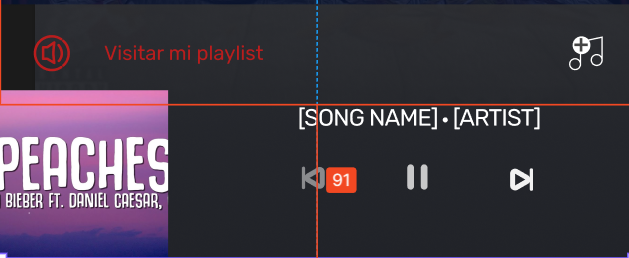
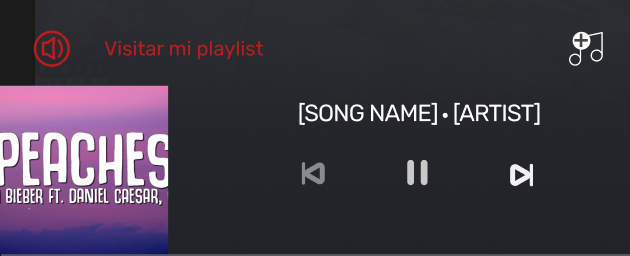
agregando la pag detalle_artistas + css

diff --git a/detalle_artistas.html b/detalle_artistas.html
@@ -1,0 +1,78 @@
+<!DOCTYPE html>
+<html lang="en">
+<head>
+    <meta charset="UTF-8">
+    <meta http-equiv="X-UA-Compatible" content="IE=edge">
+    <meta name="viewport" content="width=device-width, initial-scale=1.0">
+    <link rel="stylesheet" href="css/detalle_artistas.css">
+    <title>Document</title>
+</head>
+<body>
+    <div class="imagenfondo">
+        <h1 class="numero centrado">Justin Bieber</h1>
+    </div>
+    <h2 class="numero margen">Top 5</h2>
+    <section>
+        <article class="topcanciones">
+            <div class="justinimage">
+                <img src="images/justin-bieber-justice.jpeg" alt="foto de justin">
+            </div>
+            <div class="numero">
+                <p>1</p>
+            </div>
+            <div class="texto">
+                <p class="negrita"><a href="detalle_cancion.html">Peaches</a></p>
+                <p class="chico">167,465,750</p>
+            </div>
+        </article>
+        <article class="topcanciones">
+            <div class="justinimage">
+                <img src="images/justin-bieber-justice.jpeg" alt="foto de justin">
+            </div>
+            <div class="numero">
+                <p>2</p>
+            </div>
+            <div class="texto">
+                <p class="negrita"><a href="detalle_cancion.html">Hold On</a></p>
+                <p class="chico">225,811,505</p>
+            </div>
+        </article>
+        <article class="topcanciones">
+            <div class="justinimage">
+                <img src="images/justin-bieber-justice.jpeg" alt="foto de justin">
+            </div>
+            <div class="numero">
+                <p>3</p>
+            </div>
+            <div class="texto">
+                <p class="negrita"><a href="detalle_cancion.html">Anyone</a></p>
+                <p class="chico">237,647,521</p>
+            </div>
+        </article>
+        <article class="topcanciones">
+            <div class="justinimage">
+                <img src="images/justin-bieber-justice.jpeg" alt="foto de justin">
+            </div>
+            <div class="numero">
+                <p>4</p>
+            </div>
+            <div class="texto">
+                <p class="negrita"><a href="detalle_cancion.html">Holy</a></p>
+                <p class="chico">419,571,590</p>
+            </div>
+        </article>
+        <article class="topcanciones">
+            <div class="justinimage">
+                <img src="images/justin-bieber-justice.jpeg" alt="foto de justin">
+            </div>
+            <div class="numero">
+                <p>5</p>
+            </div>
+            <div class="texto">
+                <p class="negrita"><a href="detalle_cancion.html">Lonely</a></p>
+                <p class="chico">385,374,216</p>
+            </div>
+        </article>
+    </section>
+</body>
+</html>

diff --git a/css/detalle_cancion.css b/css/detalle_cancion.css
@@ -2,24 +2,29 @@
     box-sizing: border-box;
 }
 body{
-    background-image: url(../images/cancion_justin.jpg);
-    background-size: contain;
+    background-color: rgb(6, 13, 20);
     
 }
-section{
-    margin: 100px 150px;
-    text-align: center;
+/*section{
     
-}
-.titulo{
+    
+    
+}*/
+.blanco{
     color:white;
 }
 .texto{
     color: #646464;
+    text-align: center;
 }
 .mobile{
-    width: 420px;
     width: 100%;
+    position: fixed;
+    bottom: 0px;
+}
+.foto_mobile{
+    width: 420px  
+
 }
 .desktop {
     display: none;
@@ -30,18 +35,23 @@ section{
      }
     .texto{
         background-color: #B91D1D;
-        padding: 1px;
+        padding: 2px;
+        margin: 40px 200px;
         font-size: large;
     }
     .desktop{
-        /*display:;*/
-    }
-    .foto_player{
-        width: 1240px;
+        display: block;
+        position: fixed;
+        bottom: 0px;
         width: 100%;
+    }
+    .foto_desktop{
+        width: 1240px;
+        
     }
     .mobile{
         display: none;
+
     }
 }
  

diff --git a/css/detalle_artistas.css b/css/detalle_artistas.css
@@ -1,0 +1,50 @@
+*{
+    box-sizing: border-box;
+}
+
+body{
+    background-color:rgb(6, 13, 20) ;
+}
+
+.imagenfondo{
+    background-image: url(../images/justin-bieber-justice.jpeg);
+    padding: 20px;
+}
+.margen{
+    padding: 10px;
+}
+.centrado{
+    text-align: center;
+}
+.topcanciones{
+    display: flex;
+    flex-wrap: wrap;
+    flex-direction: row;
+    padding: 10px;
+}
+.justinimage{
+    width:20%
+}
+
+.justinimage img{
+    width: 100%;
+    border-radius: 10px;
+}
+article .numero{
+    padding: 10px 30px;
+    font-weight: bold
+}
+.numero{
+    color: white;
+}
+.texto a{
+    color: white;
+    text-decoration: none;
+}
+.texto .negrita{
+    font-weight: normal;
+}
+.texto .chico{
+    font-size: small;
+    color: #A7A7A7 ;
+}

diff --git a/detalle_cancion.html b/detalle_cancion.html
@@ -9,15 +9,15 @@
 </head>
 <body>
     <section class="texto">
-        <h2 class="titulo">Peaches</h2>
+        <h2 class="blanco">Peaches</h2>
         <p class="texto">Justin Bieber</p>
         <p class="texto">Justice</p>
     </section>
     <section class="mobile">
-        <img src="images/player_mobile.PNG" alt="player">
+        <img class="foto_mobile" src="images/player_mobile.PNG" alt="player">
     </section>
     <section class="desktop">
-        <img src="images/player img.PNG" alt="player">
+        <img class="foto_desktop" src="images/player img.PNG" alt="player">
     </section>
     
 </body>

diff --git a/css/detalle_disco.css b/css/detalle_disco.css
@@ -69,6 +69,9 @@ article a{
     .primera_seccion .imagen{
         width: 30%;
     }
+    .primera_seccion .justin{   
+        width: 100%;
+    }
     .primera_seccion article{
         padding: 50px;
     }
@@ -97,8 +100,8 @@ article a{
     }
     .table tr{
         padding: 15px;
-        border-bottom-style: solid;
-        border-bottom-width: 1px;
+        border-bottom: solid 1px #A7A7A7;
+        line-height: 1.7;
     }
     /* Rectangle 12 */
 

diff --git a/detalle_disco.html b/detalle_disco.html
@@ -12,7 +12,7 @@
     
     <section class="primera_seccion">
         <div class="imagen">
-            <img src="images/justin-bieber-justice.jpeg" alt="Foto del disco de Justin">
+            <img class="justin" src="images/justin-bieber-justice.jpeg" alt="Foto del disco de Justin">
         </div>
         <article>
             <h2 class="white">Justice</h2>
